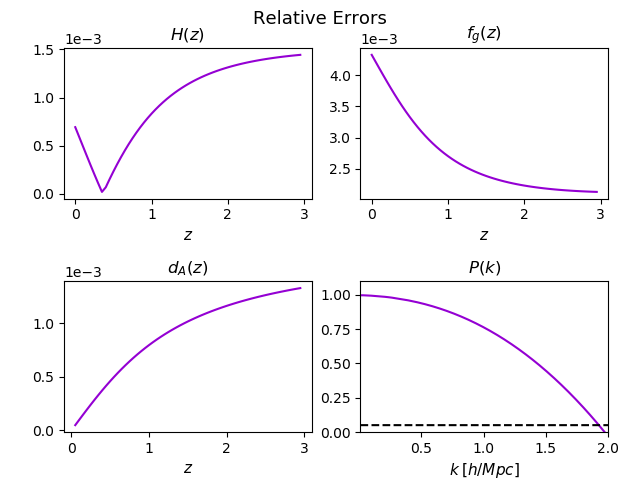
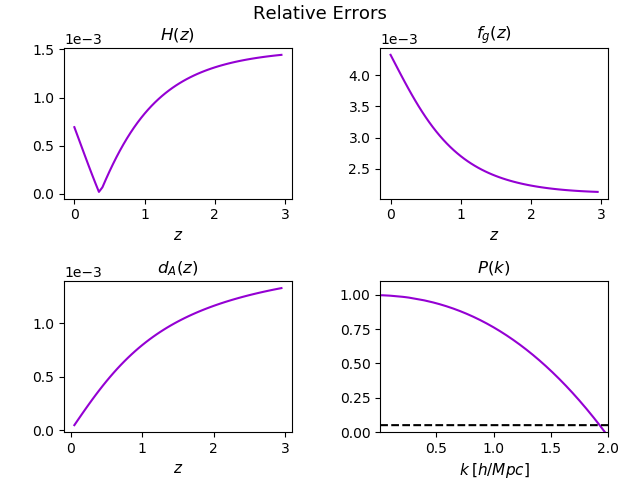
+1 plot

diff --git a/cosmology.py b/cosmology.py
@@ -136,10 +136,10 @@ axs[1, 1].set_xlim((0.01,2))
 axs[1, 1].set_ylim((0,1.1))
 axs[1, 1].ticklabel_format(axis='both', style='sci', scilimits=(0,0))
 axs[1, 1].set_title(r'$P(k)$')
-fig.tight_layout()
-fig.suptitle('Relative Errors', y=0.98, fontsize=13)
+fig.tight_layout(w_pad=4)
+fig.suptitle('Relative Errors', y=0.99, fontsize=13)
 plt.subplots_adjust(left=0.1, right=0.95, bottom=0.1, top=0.9)
-#plt.savefig('new_plots/relative_errors')
+plt.savefig('new_plots/relative_errors')
 plt.show()
 
 
